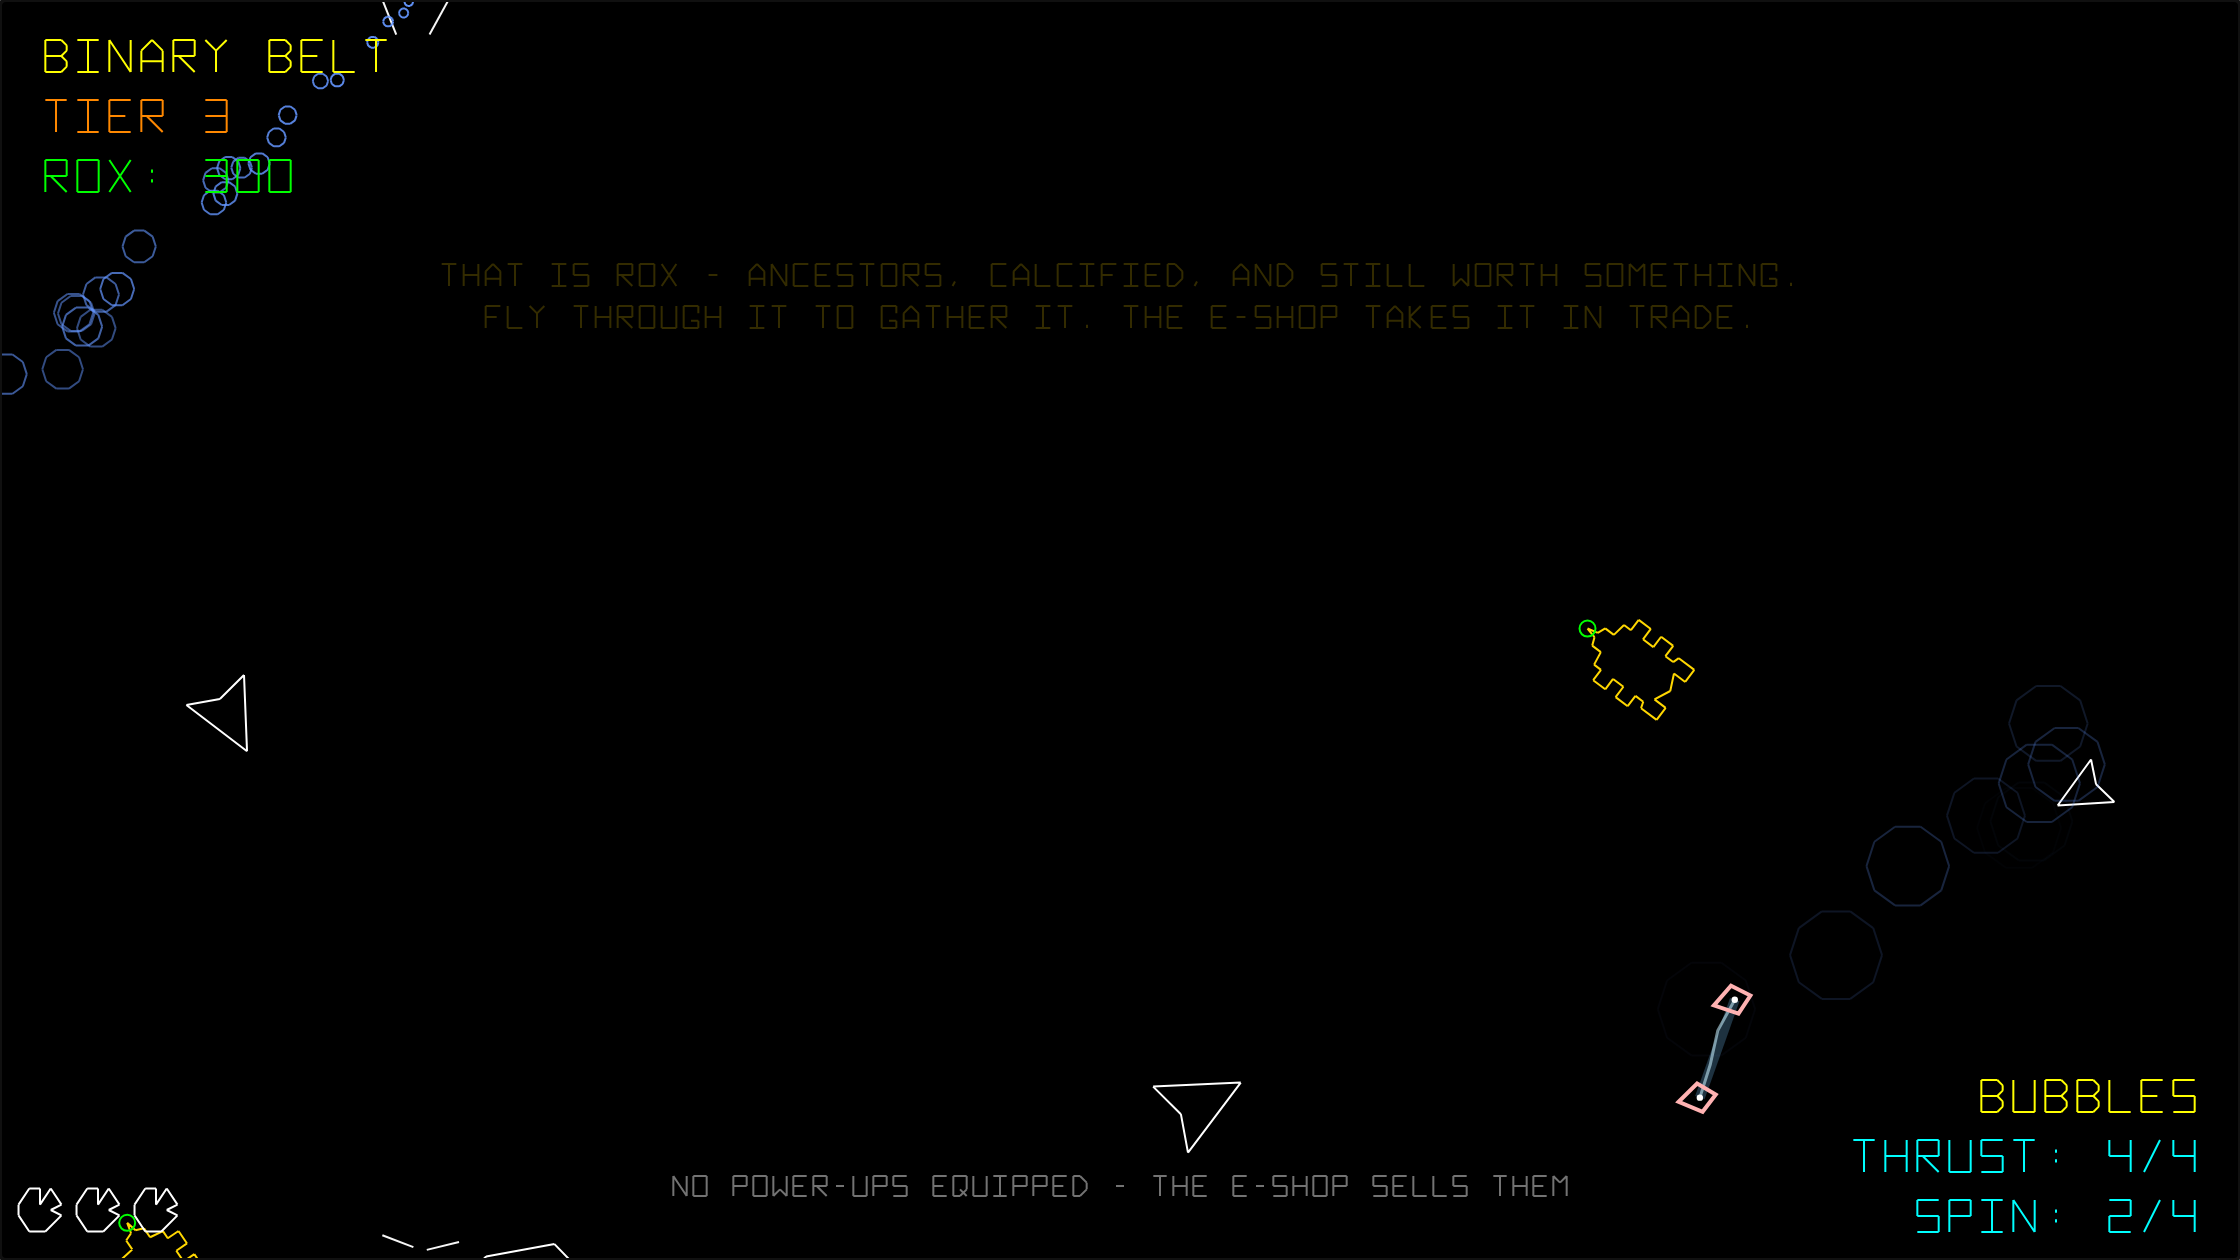
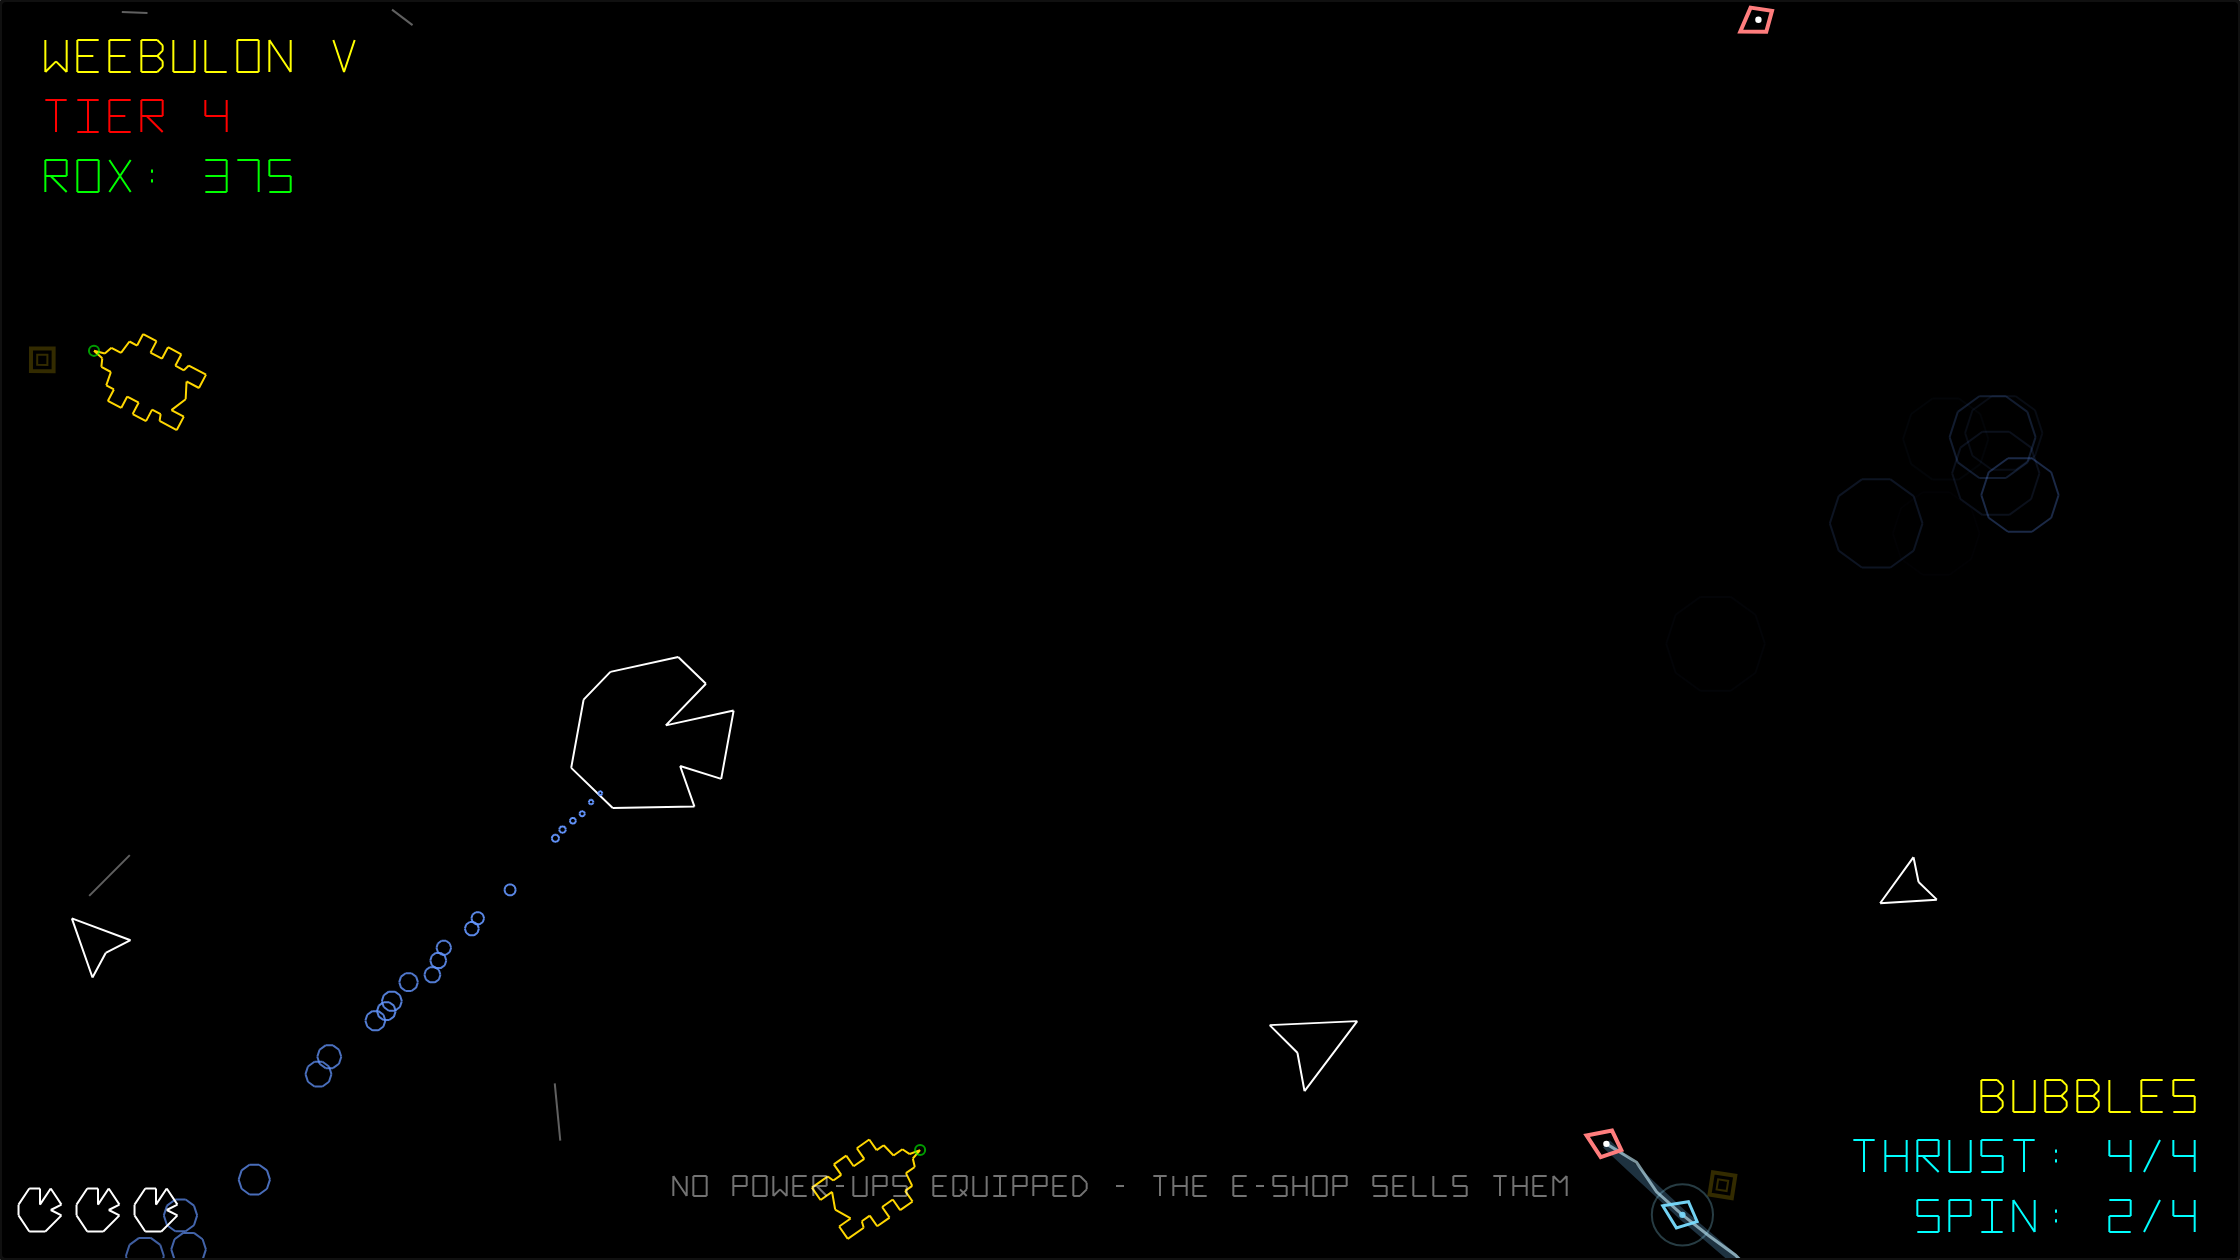
Media: RASTER pictures, and three pictures that no longer showed the game
Piece 3 of the docs refresh: pictures for the words PR #51 wrote.

- Seven raster stills, shot-15 to shot-21: the smash, the designer bench,
  a boss fight, the tunnel, SPACE TRASH, the E-SHOP and the main menu. The
  README puts the vector and raster smash side by side, adds the raster
  designer as a loop, and gives the rest a table of their own.
- shot-01-smash is a clean tier 4 frame. The old one carried the first-ROX
  tutorial line across the top.
- shot-08-designer shows the sculptor the vector designer draws now. The
  old frame predated it.
- tunnel.gif is cut before the crash. The old loop spent its last seconds
  on THE ROCK DID NOT ENDURE.

Everything was captured off the live build at d0bc383 and picked from
contact sheets. The other vector pictures still match the game and were
left alone. The lore scan passes on the README.

Claude-Session: https://claude.ai/code/session_01A37HgSLNuk6bxT5N97cEzb

diff --git a/README.md b/README.md
@@ -64,10 +64,17 @@ game drawn in chunky pixels, the way a PC game in 1993 would have drawn it.
 In raster, your rock is a stone sprite, the AXIOM flies pixel craft, and most scenes sit on
 painted backdrops. The text is your chosen vector font, baked into pixels.
 
+| Vector | Raster |
+|---|---|
+| ![A tier 4 wave, in vector](media/screens/shot-01-smash.png) | ![The same system, in raster](media/screens/shot-15-raster-smash.png) |
+| *Tier 4, in line segments.* | *The same system, in pixels.* |
+
 The rock designer is different in raster. You pick one of twelve found stones and a mineral
 tint. The tardigrade spits at the stone ten times: a hit on the edge bites a piece off, and a
 hit further in leaves a crater. You can age the stone, then turn it and cut the vent where
 the flame comes out.
+
+![Spitting at a found stone on the raster designer's bench](media/loops/raster-designer.gif)
 
 **Raster unlocks after one full campaign in vector.** The command line can open it early.
 Both choices lead to the same nine save slots, and a slot plays in the style you picked to
@@ -185,8 +192,8 @@ itself.
 
 | | |
 |---|---|
-| ![Ramming a ship in the Binary Belt](media/screens/shot-01-smash.png) | ![The E-SHOP](media/screens/shot-02-eshop.png) |
-| *Tier 3, mid-smash. The HUD is two corners and nothing else.* | *The counter, and the module that runs it.* |
+| ![A tier 4 wave, in vector](media/screens/shot-01-smash.png) | ![The E-SHOP](media/screens/shot-02-eshop.png) |
+| *Tier 4. The HUD is two corners and nothing else.* | *The counter, and the module that runs it.* |
 | ![The Tunnel](media/screens/shot-03-tunnel.png) | ![A boss fight](media/screens/shot-04-boss.png) |
 | *The last loop. It sings.* | *Bosses have personalities, weapons and escorts.* |
 | ![ARCHNOTOIDS](media/screens/shot-05-archnotoids.png) | ![The star map, drawn as a transit diagram](media/screens/shot-06-starmap.png) |
@@ -201,6 +208,17 @@ itself.
 | *<kbd>Z</kbd> takes the instruments off and leaves the rock alone in the dark.* | *Between systems.* |
 | ![PI TAPE](media/screens/shot-11-pitape.png) | |
 | *The trail is the path, written down.* | |
+
+### In raster
+
+| | |
+|---|---|
+| ![A boss fight in raster](media/screens/shot-17-raster-boss.png) | ![SPACE TRASH in raster](media/screens/shot-19-raster-trash.png) |
+| *Two Architects and a beam, over the planet.* | *The junk has names. That one is a teapot.* |
+| ![The tunnel in raster](media/screens/shot-18-raster-tunnel.png) | ![The E-SHOP in raster](media/screens/shot-20-raster-eshop.png) |
+| *The walls are rock now.* | *The keeper and CLANKER, in pixels.* |
+| ![The raster rock designer](media/screens/shot-16-raster-designer.png) | ![The main menu in raster](media/screens/shot-21-raster-menu.png) |
+| *Five spits left, one pass of age.* | *Both ways in, from the same menu.* |
 
 There is also a [trailer](media/trailer.mp4) in here. GitHub will not play it inline, so
 you will have to download it to watch it.
